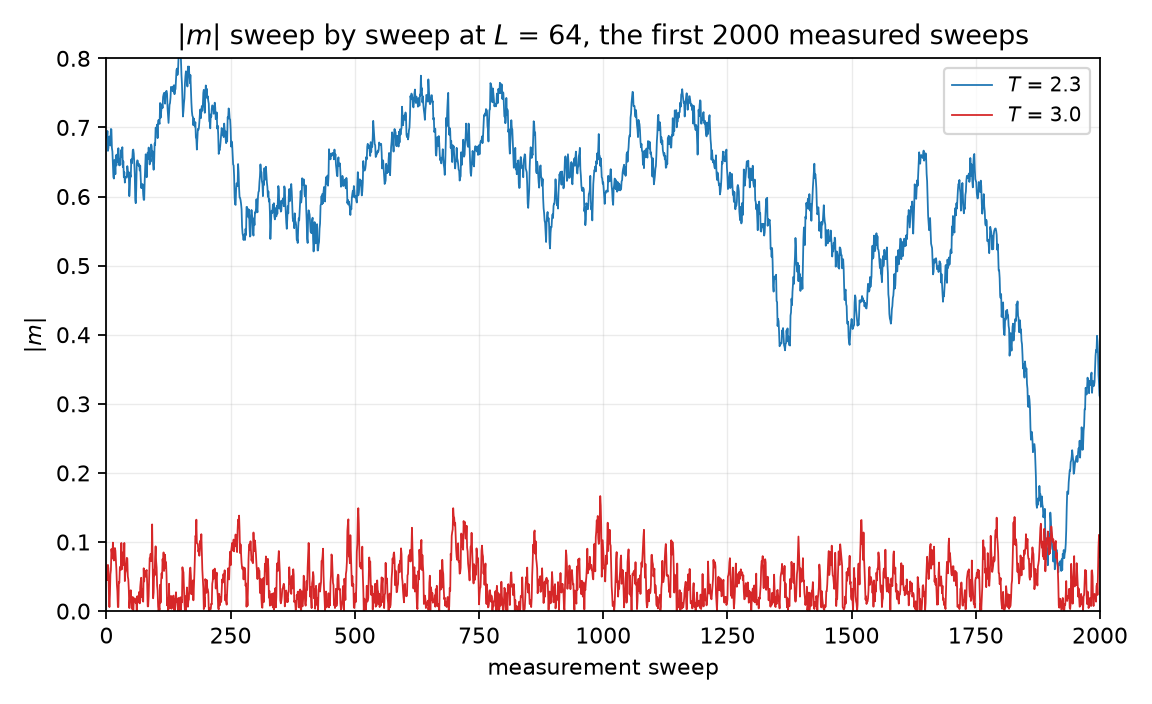
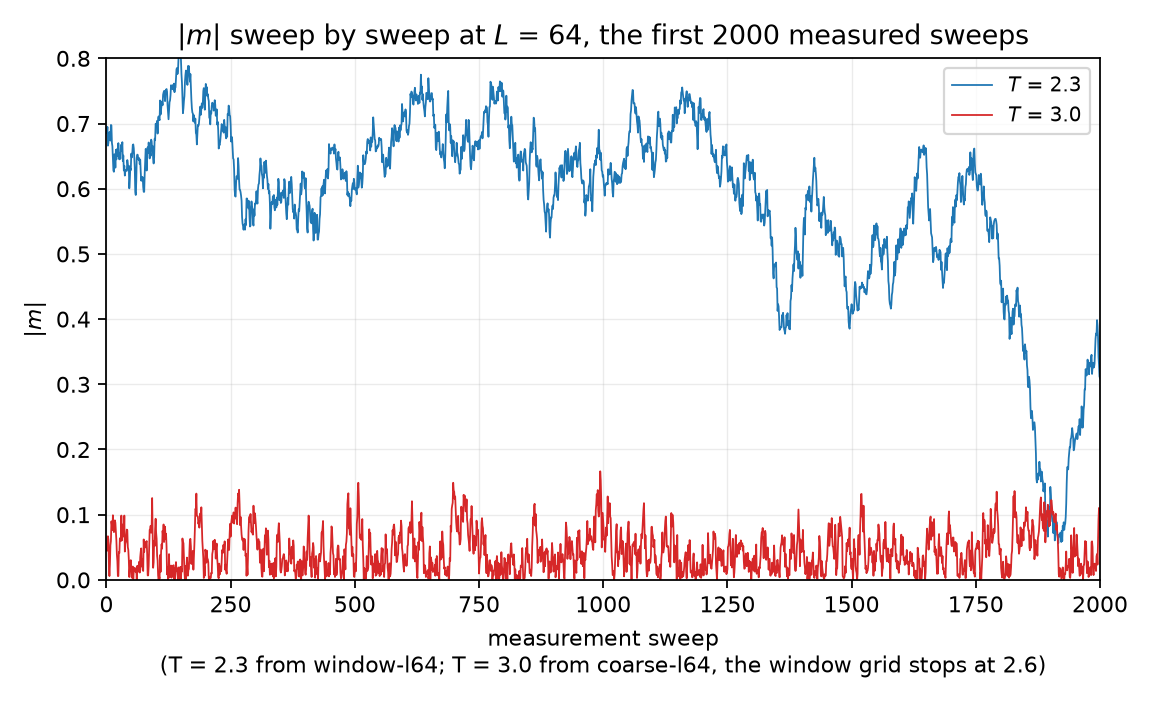
docs: state the run behind each trace on the chart

diff --git a/week3/scripts/trace.py b/week3/scripts/trace.py
@@ -92,6 +92,11 @@ def main() -> None:
         "$|m|$ sweep by sweep at $L$ = 64,"
         f" the first {NSHOW} measured sweeps"
     )
+    axes.set_xlabel(
+        "measurement sweep\n"
+        f"(T = 2.3 from {SOURCES[0][1]}; T = 3.0 from {SOURCES[1][1]},"
+        " the window grid stops at 2.6)"
+    )
     axes.grid(alpha=0.25, linewidth=0.6)
     axes.legend(loc="upper right", frameon=True, fontsize=9)
     figure.tight_layout()
